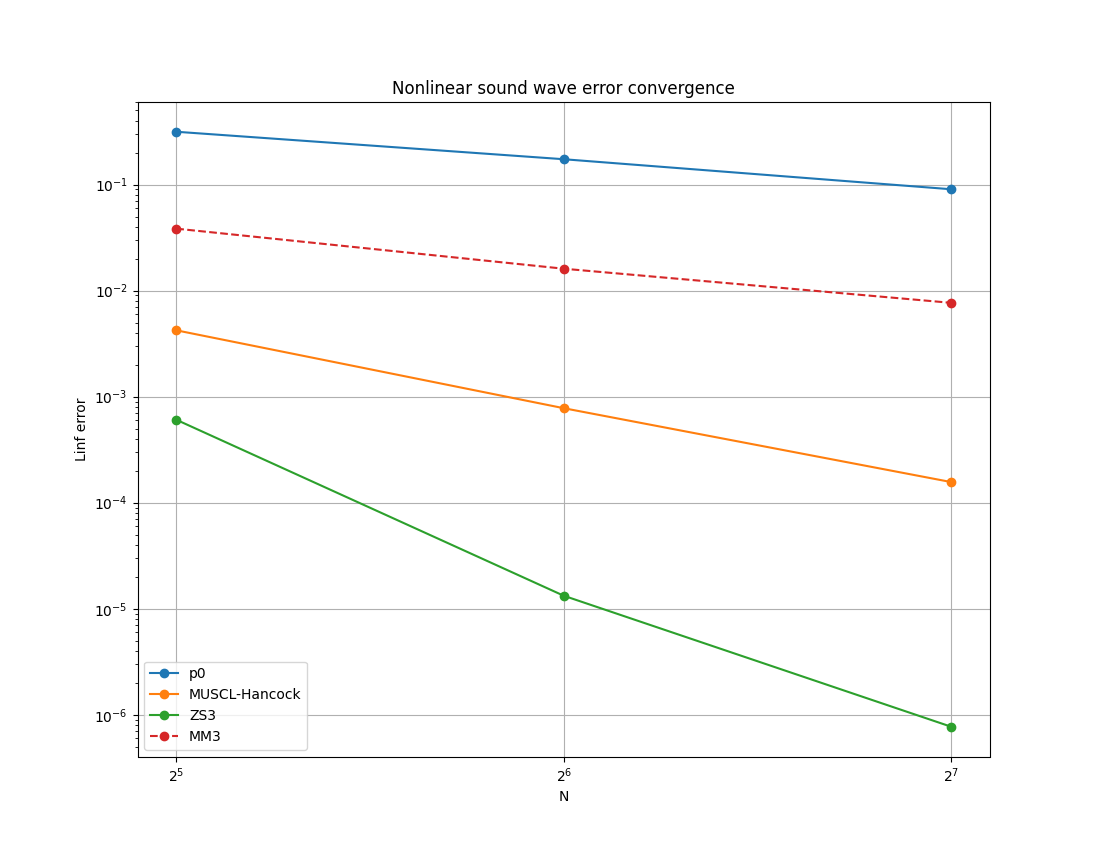
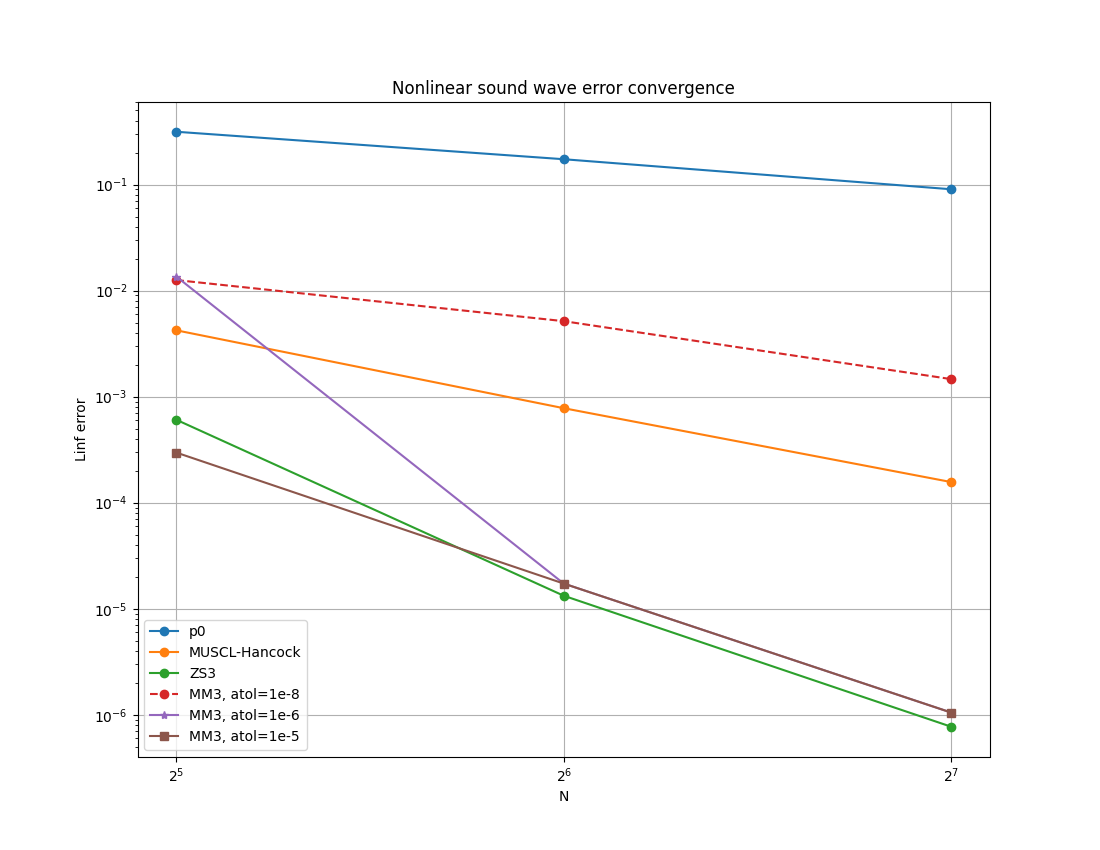
a posteriori converges for entropy wave

diff --git a/benchmarks/entropy-wave-convergence/__main__.py b/benchmarks/entropy-wave-convergence/__main__.py
@@ -43,12 +43,13 @@ configs = {
     #     PAD={"rho": (0, None), "P": (0, None)},
     #     SED=True,
     # ),
-    "MM3": dict(
+    "MM3, atol=1e-8": dict(
         riemann_solver="hllc",
         p=3,
         flux_recipe=2,
         lazy_primitives="none",
         MOOD=True,
+        limiting_vars=("rho",),
         cascade="muscl",
         MUSCL_limiter="moncen",
         max_MOOD_iters=1,
@@ -56,6 +57,38 @@ configs = {
         NAD=True,
         NAD_rtol=1e-2,
         NAD_atol=1e-8,
+        SED=True,
+    ),
+    "MM3, atol=1e-6": dict(
+        riemann_solver="hllc",
+        p=3,
+        flux_recipe=2,
+        lazy_primitives="none",
+        MOOD=True,
+        limiting_vars=("rho",),
+        cascade="muscl",
+        MUSCL_limiter="moncen",
+        max_MOOD_iters=1,
+        blend=True,
+        NAD=True,
+        NAD_rtol=1e-2,
+        NAD_atol=1e-6,
+        SED=True,
+    ),
+    "MM3, atol=1e-5": dict(
+        riemann_solver="hllc",
+        p=3,
+        flux_recipe=2,
+        lazy_primitives="none",
+        MOOD=True,
+        limiting_vars=("rho",),
+        cascade="muscl",
+        MUSCL_limiter="moncen",
+        max_MOOD_iters=1,
+        blend=True,
+        NAD=True,
+        NAD_rtol=1e-2,
+        NAD_atol=1e-5,
         SED=True,
     ),
     # "MM7": dict(
